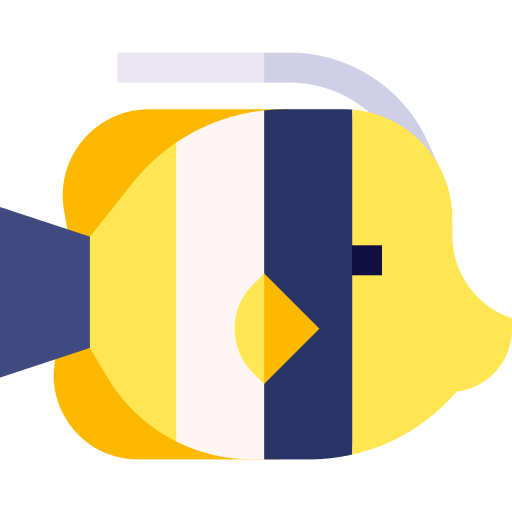
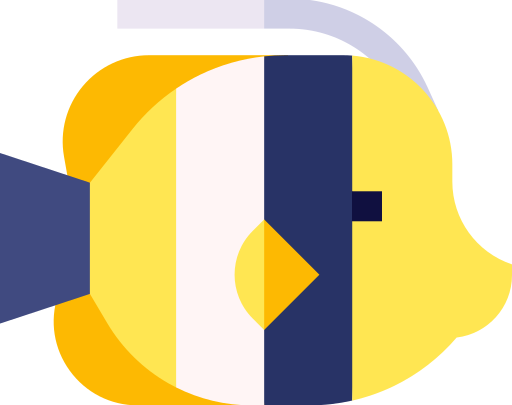
Fix bugs, crop images/hitboxes, format code files
- Fix bug where player growth occurs after a fish has switched to a new preset
- Fix bug where player constantly flips under certain conditions
- Cropped images are normalized to maintain aspect ratio when sized for power

diff --git a/utils.py b/utils.py
@@ -1,12 +1,13 @@
 import pygame, simpleGE
 from enum import Enum
 
+
 class InputActions(Enum):
     # Action     WASD          arrow keys       keypad; overlap on purpose for diagonals
-    MOVE_LEFT =  [pygame.K_a,  pygame.K_LEFT,   pygame.K_KP7, pygame.K_KP4, pygame.K_KP1]
-    MOVE_RIGHT = [pygame.K_d,  pygame.K_RIGHT,  pygame.K_KP9, pygame.K_KP6, pygame.K_KP3]
-    MOVE_DOWN =  [pygame.K_s,  pygame.K_DOWN,   pygame.K_KP1, pygame.K_KP2, pygame.K_KP3]
-    MOVE_UP =    [pygame.K_w,  pygame.K_UP,     pygame.K_KP7, pygame.K_KP8, pygame.K_KP9]
+    MOVE_LEFT = [pygame.K_a, pygame.K_LEFT, pygame.K_KP7, pygame.K_KP4, pygame.K_KP1]
+    MOVE_RIGHT = [pygame.K_d, pygame.K_RIGHT, pygame.K_KP9, pygame.K_KP6, pygame.K_KP3]
+    MOVE_DOWN = [pygame.K_s, pygame.K_DOWN, pygame.K_KP1, pygame.K_KP2, pygame.K_KP3]
+    MOVE_UP = [pygame.K_w, pygame.K_UP, pygame.K_KP7, pygame.K_KP8, pygame.K_KP9]
 
     def isActionPressed(sprite: simpleGE.Sprite, action):
         keysPressed = 0
@@ -14,8 +15,9 @@ class InputActions(Enum):
         for keybind in action.value:
             if sprite.isKeyPressed(keybind):
                 keysPressed += 1
-        
+
         return keysPressed
+
 
 class BoundaryLogic:
     class _Boundaries(Enum):
@@ -26,7 +28,6 @@ class BoundaryLogic:
         DOWN = 90
         NOT_AT_BOUND = -1
 
-
     def ifAtBoundThenForceAway(sprite: simpleGE.Sprite):
         boundary = BoundaryLogic._whereIs(sprite)
 
@@ -34,7 +35,6 @@ class BoundaryLogic:
             return
         else:
             BoundaryLogic._forceAwayFrom(sprite, boundary)
-
 
     def _whereIs(sprite: simpleGE.Sprite):
 
@@ -48,6 +48,47 @@ class BoundaryLogic:
             return BoundaryLogic._Boundaries.UP
         else:
             return BoundaryLogic._Boundaries.NOT_AT_BOUND
-    
+
     def _forceAwayFrom(sprite: simpleGE.Sprite, bound):
         sprite.addForce(5, bound.value)
+
+
+class ImageManip:
+    def normalizeSizeToPower(fish: simpleGE.Sprite):
+        aspectRatio = ImageManip._imageAspectRatio(fish)
+
+        normalizedX = fish.power * aspectRatio[0]
+        normalizedY = fish.power * aspectRatio[1]
+
+        fish.setSize(normalizedX, normalizedY)
+
+    def _imageAspectRatio(fish: simpleGE.Sprite):
+        imageRect = fish.image.get_rect()
+        nearCorner = imageRect.topleft
+        farCorner = imageRect.bottomright
+
+        dimensions = ImageManip._subtractTuples(farCorner, nearCorner)
+        x = dimensions[0]
+        y = dimensions[1]
+
+        if x > y:
+            return (1, y / x)
+        elif y > x:
+            return (x / y, 1)
+        else:
+            return (1, 1)
+
+    def _subtractTuples(tuple1: tuple, tuple2: tuple):
+        return (tuple1[0] - tuple2[0], tuple1[1] - tuple2[1])
+
+    def flipFish(fish: simpleGE.Sprite):
+        if not fish.flipped:
+            ImageManip._flipImage(fish)
+
+    def unflipFish(fish: simpleGE.Sprite):
+        if fish.flipped:
+            ImageManip._flipImage(fish)
+
+    def _flipImage(sprite: simpleGE.Sprite):
+        sprite.image = pygame.transform.flip(sprite.image, True, False)
+        sprite.flipped = not sprite.flipped

diff --git a/fish.py b/fish.py
@@ -1,20 +1,31 @@
 import simpleGE, random
 from enum import Enum
+from utils import ImageManip
+
 
 class Preset:
-    def __init__(self, name: str, speedMin: float, speedMax: float, power: float, imagePath: str):
+    def __init__(
+        self, name: str, speedMin: float, speedMax: float, power: float, imagePath: str
+    ):
         self.name = name
         self.speedMin = speedMin
         self.speedMax = speedMax
         self.power = power
         self.imagePath = imagePath
 
+
 class FishPresets(Enum):
     # TODO: Crop icons to create more accurate hitboxes
 
-    PLAYER =    Preset("Player", speedMin=4, speedMax=4, power=30, imagePath="assets/player.png")
-    BUTTERFLY = Preset("Butterfly Fish", speedMin=1, speedMax=4, power=25, imagePath="assets/fish_butterfly.png")
-    SHARK =     Preset("Shark", speedMin=4, speedMax=8, power=100, imagePath="assets/fish_shark.png")
+    PLAYER = Preset(
+        "Player", speedMin=4, speedMax=4, power=30, imagePath="assets/player.png"
+    )
+    BUTTERFLY = Preset(
+        "Butterfly Fish", speedMin=2, speedMax=5, power=25, imagePath="assets/fish_butterfly.png",
+    )
+    SHARK = Preset(
+        "Shark", speedMin=4, speedMax=8, power=100, imagePath="assets/fish_shark.png"
+    )
 
     def randomFish():
         choice = random.choice(list(FishPresets))
@@ -37,8 +48,9 @@ class Fish(simpleGE.Sprite):
         self.setImage("assets/placeholder.png")
         self.setSize(50, 50)
 
+        self.flipped = False
+
         self.reset()
-    
 
     def reset(self):
         self.applyRandomPreset()
@@ -46,22 +58,22 @@ class Fish(simpleGE.Sprite):
 
     def applyRandomPreset(self):
         self.applyPreset(FishPresets.randomFish())
-    
+
     def applyPreset(self, preset: FishPresets):
         preset = preset.value
 
         self.name = preset.name
         self.swimSpeed = random.randint(preset.speedMin, preset.speedMax)
         self.setImage(preset.imagePath)
-        
+        self.flipped = False
+
         self.power = preset.power
-        self.setSize(self.power, self.power)
-    
+        ImageManip.normalizeSizeToPower(self)
 
     def shufflePosition(self):
         startFromLeft = random.randint(0, 1)
 
-        self.x = -100 if startFromLeft else self.screenWidth + 100  
+        self.x = -100 if startFromLeft else self.screenWidth + 100
         self.y = random.randint(0, self.screenHeight)
 
         self.swim(startFromLeft)
@@ -69,5 +81,7 @@ class Fish(simpleGE.Sprite):
     def swim(self, startFromLeft: bool):
         if startFromLeft:
             self.dx = self.swimSpeed
+            ImageManip.unflipFish(self)
         else:
             self.dx = -self.swimSpeed
+            ImageManip.flipFish(self)

diff --git a/main.py b/main.py
@@ -3,6 +3,7 @@ import simpleGE
 from fish import *
 from player import Player
 
+
 class GameScene(simpleGE.Scene):
     NUM_OF_NPC_FISHES = 10
     FISH_CONTINUE_TRESHOLD = 100
@@ -15,28 +16,23 @@ class GameScene(simpleGE.Scene):
         self.setImage("assets/backdrop.png")
 
         self.player = Player(self)
-        self.player.position = (self.player.screenWidth / 2, self.player.screenHeight / 2)
+        self.player.position = (
+            self.player.screenWidth / 2,
+            self.player.screenHeight / 2,
+        )
 
         self.fishes = []
 
         for _ in range(GameScene.NUM_OF_NPC_FISHES):
             self.fishes.append(Fish(self))
 
-        self.sprites = [
-            self.player,
-            self.fishes
-        ]
-    
+        self.sprites = [self.player, self.fishes]
+
     def process(self):
         for fish in self.fishes:
             self.runPlayerCollisionCheck(fish)
             self.resetIfNeeded(fish)
-    
-    # TODO: Debounce fish that were "eaten" using player i-frames
-    #   When you eat a fish, it's moved off-screen and changed to a "new" fish.
-    #   Sometimes, in a frame drop for example, the fish you "ate" changes first.
-    #   If the size of the "new" fish is greater than the size of the player, 
-    #   this causes an instant game over.
+
     def runPlayerCollisionCheck(self, fish: Fish):
         if fish.collidesWith(self.player) and not self.player.isInvincible():
 
@@ -46,15 +42,20 @@ class GameScene(simpleGE.Scene):
                 exit(0)
             else:
                 self.player.triggerIFrames()
-                fish.reset()
                 self.player.growBy(fish.power * GameScene.PLAYER_GROWTH_FACTOR)
-    
+                print(
+                    f"[Player is now at {self.player.power} power] [Ate {fish.name} at {fish.power} power]"
+                )
+                fish.reset()
+
     def resetIfNeeded(self, fish: Fish):
         if self.fishHasPassedFarEdge(fish):
             fish.reset()
-        
+
     def fishHasPassedFarEdge(self, fish: Fish):
-        passedRightEdge = fish.dx > 0 and fish.x > fish.screenWidth + GameScene.FISH_CONTINUE_TRESHOLD
+        passedRightEdge = (
+            fish.dx > 0 and fish.x > fish.screenWidth + GameScene.FISH_CONTINUE_TRESHOLD
+        )
         passedLeftEdge = fish.dx < 0 and fish.x < -GameScene.FISH_CONTINUE_TRESHOLD
 
         return passedRightEdge or passedLeftEdge
@@ -65,6 +66,7 @@ def main():
 
     game = GameScene(resolution)
     game.start()
+
 
 if __name__ == "__main__":
     main()

diff --git a/player.py b/player.py
@@ -1,6 +1,7 @@
 from fish import *
 from utils import *
 
+
 class Player(Fish):
     def __init__(self, scene):
         super().__init__(scene)
@@ -18,27 +19,33 @@ class Player(Fish):
 
         if InputActions.isActionPressed(self, InputActions.MOVE_LEFT):
             self.dx = -self.swimSpeed
+            ImageManip.flipFish(self)
         if InputActions.isActionPressed(self, InputActions.MOVE_RIGHT):
             self.dx = self.swimSpeed
+            ImageManip.unflipFish(self)
         if InputActions.isActionPressed(self, InputActions.MOVE_UP):
             self.dy = -self.swimSpeed
         if InputActions.isActionPressed(self, InputActions.MOVE_DOWN):
             self.dy = self.swimSpeed
-        
+
         # custom boundary action
         BoundaryLogic.ifAtBoundThenForceAway(self)
 
         if self.remainingIFrames > 0:
             self.remainingIFrames -= 1
             # print(f"remaining iframes: {self.remainingIFrames}/{self.MAX_IFRAMES}")
-    
+
     def growBy(self, addend: int):
         self.setImage("assets/player.png")
+        self.flipped = False
+
         self.power += addend
-        self.setSize(self.power, self.power)
-    
+        ImageManip.normalizeSizeToPower(self)
+
+        print(f"Size/Power: {self.power:2.2f} | Increased by: {addend:2.2f}")
+
     def isInvincible(self):
         return self.remainingIFrames > 0
-    
+
     def triggerIFrames(self):
         self.remainingIFrames = self.MAX_IFRAMES

diff --git a/README.md b/README.md
@@ -178,11 +178,12 @@ Asset list will be updated as assets are added to the repo.
 ### Extra Ideas
 1. Different fish presets have unique sounds
 2. Fish constructor follows builder design pattern (for readability of presets)
-3. Weight the random preset algorithm to favor bigger fish as the player's size grows
-4. Particle effects?
-5. Game Over overlay in In-game scene. Lets players view the round's details before returning to Main Menu.
-6. Joystick support
-7. Stamina mechanic? (can sprint for short periods)
+3. Intuitive logging system
+4. "Diet" hitboxes (more accurate)
+5. Weight the random preset algorithm to favor bigger fish as the player's size grows
+6. Ambient/particle effects?
+7. Game Over overlay in In-game scene. Lets players view the round's details before returning to Main Menu.
+8. Joystick support
 
 ## Multi-State Considerations
 The game runs the Main Menu scene. 
